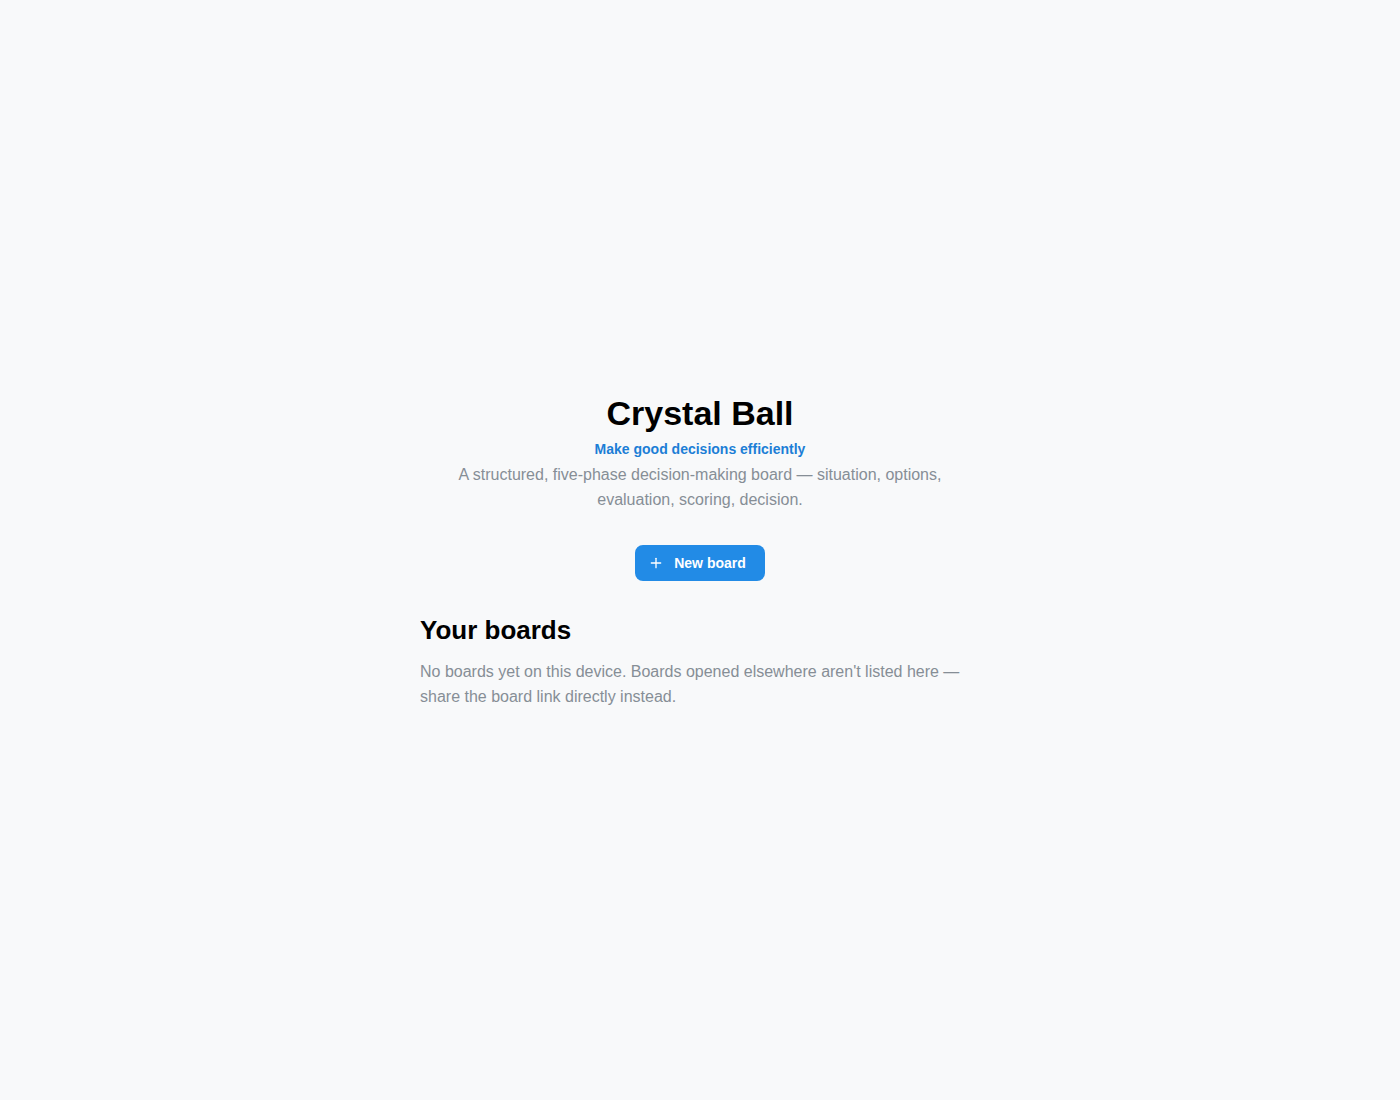
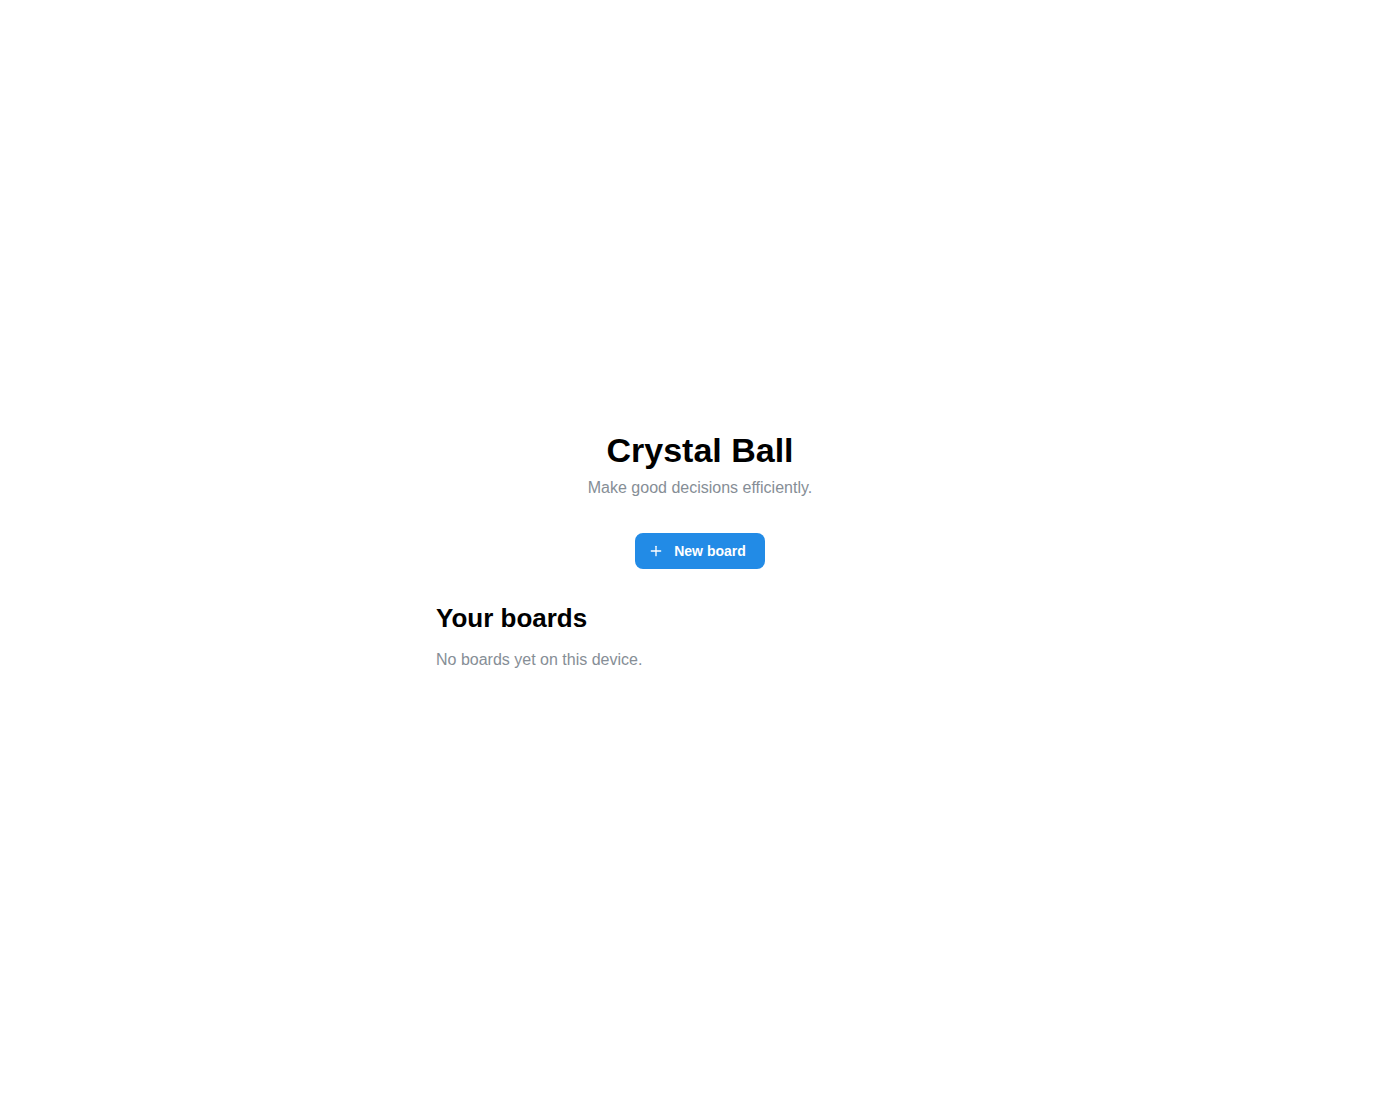
update smoke test, screenshots, readme

Changed region(s): [[0.3379, 0.3709, 0.6143, 0.5255], [0.3071, 0.5564, 0.6757, 0.6491]]

diff --git a/README.md b/README.md
@@ -3,21 +3,21 @@
 [![CI](https://github.com/tommilligan/crystalline/actions/workflows/ci.yml/badge.svg)](https://github.com/tommilligan/crystalline/actions/workflows/ci.yml)
 [![License: MIT](https://img.shields.io/badge/License-MIT-yellow.svg)](LICENSE)
 
-This tool helps you make good decisions - efficiently.
+Make good decisions efficiently.
 
-It guides you (or a team) through making decisions in a set, sequential process:
+This tool guides you (or a team) through making decisions in a set, sequential process:
 
 - Problem clarification
 - Idea generation
 - Option evaluation
-- Picking the final outcome
+- Final decision
 
 This simplifies each stage, by focusing on the key skills uniquely required at each step. For example, creativity is *needed* for idea generation, but disruptive during evaluation.
 
 ## Origin
 
-This tool is an adaptation of the Crystal Ball decision-making tool, [developed by](https://www.linkedin.com/posts/activity-7305992104365678592-QWPq) Bob Darius (GSK/Sanofi) and originally inspired by Dr. Edward de Bono's *Six Thinking Hats*.
-It started life as a physical whiteboard exercise (see the example below) - this repo turns it into an interactive, collaborative tool.
+The Crystal Ball is a decision making process [developed by Bob Darius](https://www.linkedin.com/posts/activity-7305992104365678592-QWPq), and originally inspired by Dr. Edward de Bono's *Six Thinking Hats*.
+Originally a physical whiteboard exercise, this repo turns it into an interactive, collaborative tool.
 
 ![The original physical whiteboard this tool is modeled on: a pharma/QC team's worked example deciding what to do with OD test samples](assets/original-whiteboard-example.png)
 
